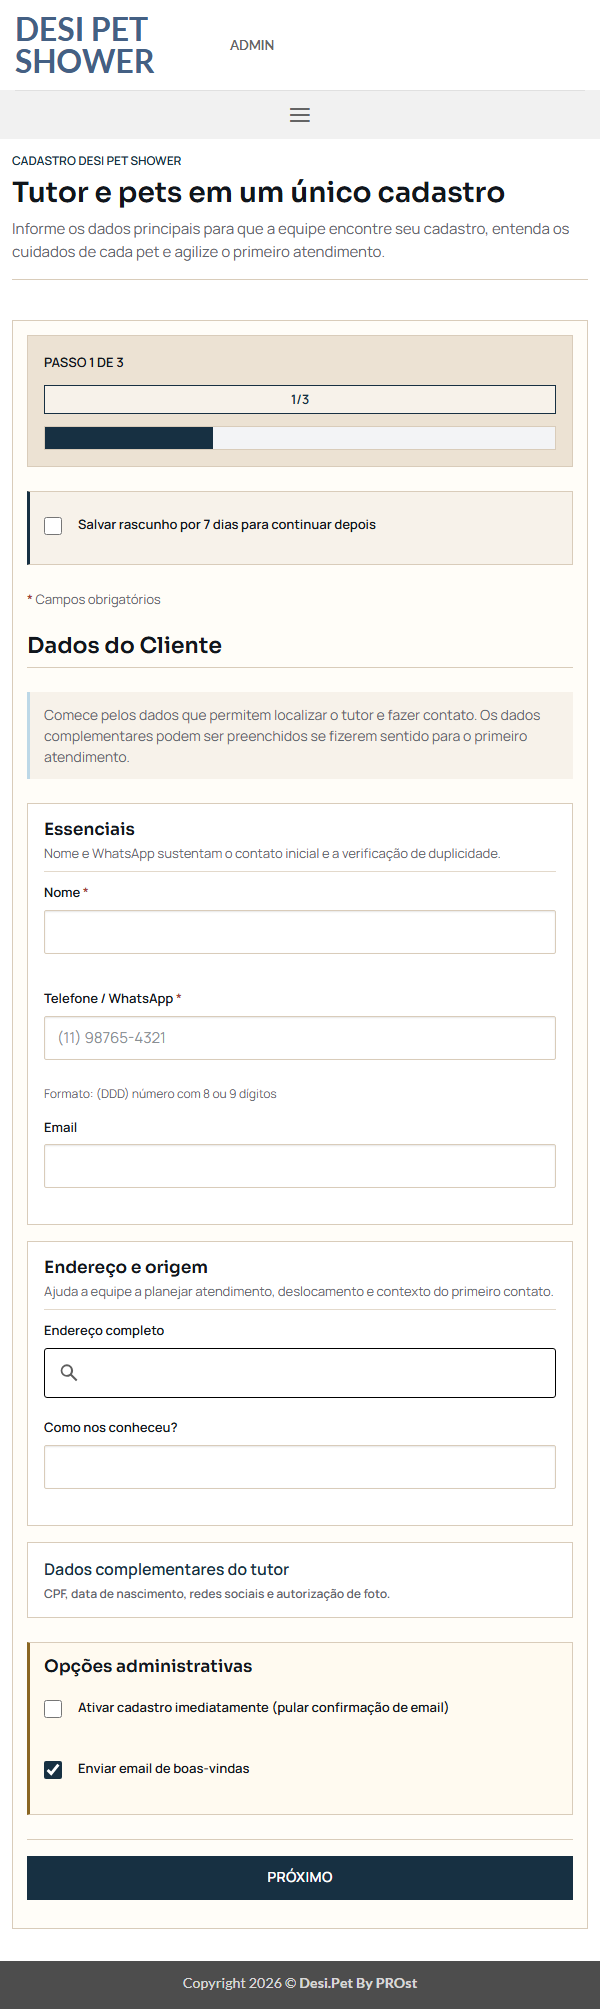
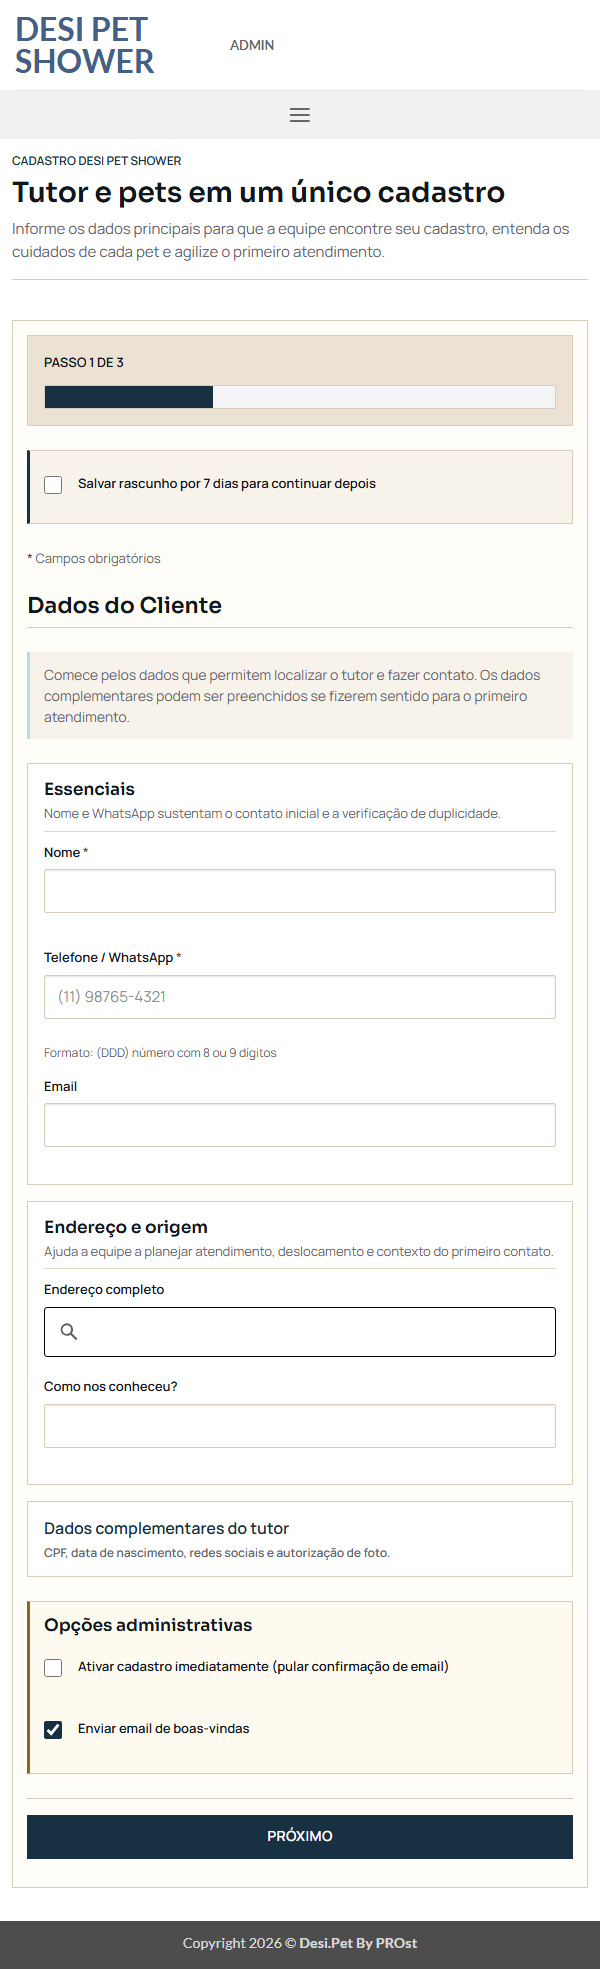
Remover contador duplicado do wizard de Cadastro

diff --git a/plugins/desi-pet-shower-registration/assets/js/dps-registration.js b/plugins/desi-pet-shower-registration/assets/js/dps-registration.js
@@ -652,9 +652,6 @@
             progress.label.textContent = 'Passo ' + step + ' de ' + state.totalSteps;
             progress.label.setAttribute('aria-current', 'step');
         }
-        if (progress.counter) {
-            progress.counter.textContent = step + '/' + state.totalSteps;
-        }
         if (progress.bar) {
             progress.bar.style.width = Math.round((step / state.totalSteps) * 100) + '%';
             if (progress.bar.parentElement) {
@@ -1270,7 +1267,6 @@
     function bindWizard(form) {
         var progress = {
             label: document.getElementById('dps-step-label'),
-            counter: document.getElementById('dps-step-counter'),
             bar: document.getElementById('dps-progress-bar-fill')
         };
         var nextButton = document.getElementById('dps-next-step');

diff --git a/plugins/desi-pet-shower-registration/assets/css/registration-addon.css b/plugins/desi-pet-shower-registration/assets/css/registration-addon.css
@@ -185,21 +185,12 @@
 .dps-progress-top {
     display: flex;
     align-items: center;
-    justify-content: space-between;
+    justify-content: flex-start;
     gap: var(--dps-reg-gap-md);
     color: var(--dps-reg-ink);
     font-size: 13px;
     font-weight: 700;
     text-transform: uppercase;
-}
-
-#dps-step-counter {
-    min-width: 44px;
-    padding: 3px 8px;
-    border: 1px solid var(--dps-reg-petrol);
-    background: var(--dps-reg-paper);
-    color: var(--dps-reg-petrol);
-    text-align: center;
 }
 
 .dps-progress-bar {

diff --git a/plugins/desi-pet-shower-registration/desi-pet-shower-registration-addon.php b/plugins/desi-pet-shower-registration/desi-pet-shower-registration-addon.php
@@ -2863,7 +2863,6 @@ class DPS_Registration_Addon {
         echo '<div class="dps-progress" aria-live="polite">';
         echo '<div class="dps-progress-top">';
         echo '<span id="dps-step-label">' . esc_html__( 'Passo 1 de 3', 'dps-registration-addon' ) . '</span>';
-        echo '<span id="dps-step-counter">1/3</span>';
         echo '</div>';
         echo '<div class="dps-progress-bar" role="progressbar" aria-valuemin="1" aria-valuemax="3" aria-valuenow="1">';
         echo '<span id="dps-progress-bar-fill"></span>';

diff --git a/CHANGELOG.md b/CHANGELOG.md
@@ -121,6 +121,7 @@ Antes de criar uma nova versÃ£o oficial:
 - Corrigido o autocomplete do Google Places no Cadastro, trocando o campo de endereco para `input` e usando o loader compartilhado `dpsSignatureGooglePlacesReady`/`DPSSignatureForms` em vez do callback paralelo antigo.
 - Corrigido o indice do checkbox `pet_aggressive` em pets adicionados dinamicamente, evitando desalinhamento entre o pet clonado e os metadados salvos.
 - Corrigido o texto do campo de indicacao injetado pelo add-on Loyalty no Cadastro, removendo mojibake visivel no formulario publicado.
+- Removido o contador visual duplicado `1/3` do topo do wizard de Cadastro, mantendo apenas `Passo X de 3` e a barra de progresso.
 - Corrigida corrida assíncrona que podia inicializar mais de um widget visual de Google Places no mesmo campo de endereco.
 - Corrigido o backend para honrar `dps_admin_send_welcome` quando o admin ativa `dps_admin_skip_confirmation`, evitando envio de boas-vindas em cadastros operacionais desmarcados.
 - Corrigidos arquivos PHP do pacote DPS com BOM no ambiente publicado, eliminando contaminação de respostas JSON do AJAX e estabilizando modais, painéis e integrações que dependem de payload limpo.

diff --git a/docs/screenshots/2026-04-25/SCREENSHOTS_2026-04-25.md b/docs/screenshots/2026-04-25/SCREENSHOTS_2026-04-25.md
@@ -82,6 +82,7 @@ Resumo:
 - foco acessivel apos erro foi para `client_name`;
 - microcopy final validada em portugues: `Tutor e pets em um único cadastro`, `Campos obrigatórios`, `Endereço e origem`;
 - auditoria computada confirmou `Sora` nos titulos, `Manrope` no corpo/UI, wizard/botoes/disclosures com `0px` de raio e inputs com `2px`;
+- topo do wizard validado sem contador visual duplicado: `stepCounterExists: false` e `progressTopText: Passo 1 de 3` nos cinco breakpoints;
 - rascunho opt-in salvou, exibiu `Rascunho salvo.`, restaurou o nome do tutor e foi limpo apos envio real;
 - clone de pet gerou dois fieldsets, legends `Pet 1` e `Pet 2`, e nomes `pet_aggressive[0]` / `pet_aggressive[1]`;
 - etapa 3 gerou preferencias e resumo para dois pets;
